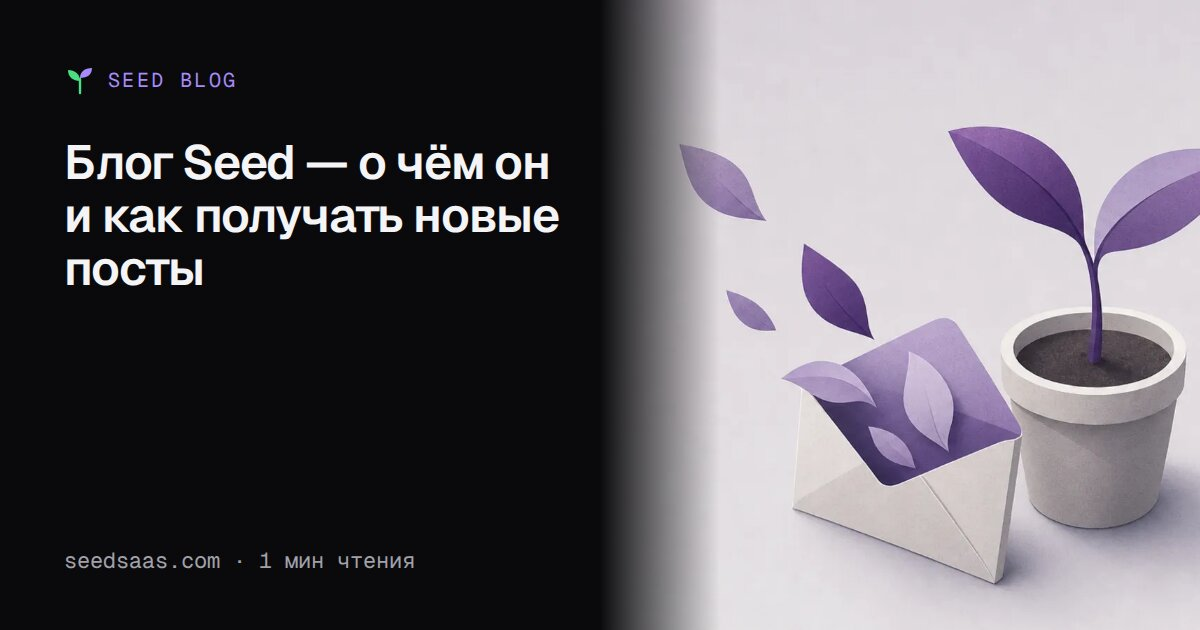
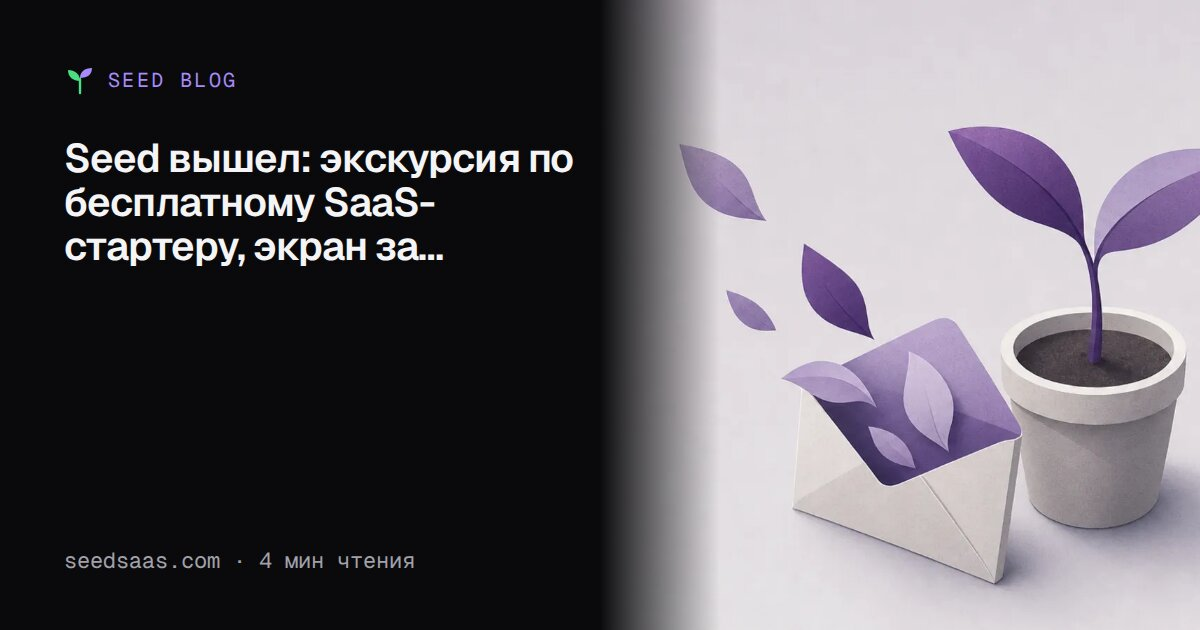
docs(blog): rewrite the welcome post as a launch tour
The post was a two-paragraph placeholder. It now opens with its point and shows what Seed gives on day one with real screenshots. newsletter is false so it is never mailed again.

Changed region(s): [[0.0308, 0.2111, 0.4933, 0.4524], [0.2158, 0.8746, 0.2467, 0.9048]]

diff --git a/libs/server/blog/seed-posts/dobro-pozhalovat-v-blog-seed.md b/libs/server/blog/seed-posts/dobro-pozhalovat-v-blog-seed.md
@@ -2,14 +2,16 @@
 slug: dobro-pozhalovat-v-blog-seed
 language: ru
 translationOf: welcome-to-the-seed-blog
-title: Блог Seed — о чём он и как получать новые посты
-description: Зачем Seed нужен блог, что вы здесь прочитаете и как получать новые посты на почту.
+title: "Seed вышел: экскурсия по бесплатному SaaS-стартеру, экран за экраном"
+seoTitle: "Seed вышел: бесплатный SaaS-стартер, экран за экраном"
+description: Seed, бесплатный SaaS-стартер под MIT, уже можно брать в работу. Что работает с первого дня, чего пока нет и как попробовать за минуту.
 tldr:
-  - Seed — бесплатный SaaS-стартер с лицензией MIT.
-  - Здесь — как строить на нём продукт, его детали и что изменилось за месяц.
-  - Подпишитесь, чтобы получать каждый новый пост на почту.
+  - Seed — бесплатный SaaS-стартер под лицензией MIT, им можно пользоваться уже сейчас. Вы копируете один репозиторий, и весь код ваш.
+  - "Уже готово: ключи доступа и 2FA, группы с ролями, оплата через Stripe за участника, обновления в реальном времени, офлайн, админка и девять языков."
+  - "Пока нет: приложений для Android и десктопа."
+  - Демо открывается в один клик, а локально Seed запускается за четыре команды.
 topic: Seed
-intro: "Я начинаю блог о Seed — бесплатном стартере для SaaS, который строю публично. Здесь — о чём вы будете читать и как получать каждый пост на почту."
+intro: "Seed, бесплатный SaaS-стартер, который я делаю в открытую, готов к работе. Показываю, что вы получаете в первый же день, экран за экраном, чего пока нет и как попробовать за минуту."
 coverAlt: "Фиолетовый росток в горшке рядом с открытым конвертом, из которого, как письма, вылетают листья."
 author: Anton Shubin
 authorUrl: https://antonshubin.com/about
@@ -17,15 +19,111 @@ publishAt: 2026-11-01T09:00:00Z
 newsletter: false
 ---
 
-Seed — это фундамент SaaS, который уже построен: вход со вторым фактором, группы с ролями, оплата,
-обновления в реальном времени, офлайн-приложение и админка, на Deno, Postgres и Docker Compose. Он
-бесплатный, под лицензией MIT, и я делаю его в открытую.
+Seed вышел. Это бесплатный SaaS-стартер под лицензией MIT, и им можно пользоваться уже сейчас:
+копируете один репозиторий и сразу получаете вход, группы с ролями, оплату через Stripe за каждого
+участника, обновления в реальном времени, офлайн-приложение, админку и девять языков. Всё это
+работает на Postgres и Docker Compose на одном вашем сервере, а прощупать каждый экран можно в
+[живом демо](https://app.seedsaas.com), ещё ничего не устанавливая.
 
-В этом блоге Seed рассказывает о себе: как начать на нём продукт, какие детали легко пропустить, и
-раз в месяц — пост «Что нового в Seed». Подпишитесь ниже, и каждый новый пост придёт вам на почту.
+Я Антон, делаю MVP для SaaS на заказ. Каждый такой проект раньше начинался с одного и того же
+месяца сантехники: вход, команды, оплата и админка, которую я каждый раз обещал себе потом сделать
+красивой. Seed — это тот самый месяц, сделанный один раз и поддерживаемый в актуальном виде. Здесь —
+экскурсия, а почему всё устроено именно так, рассказано в посте
+[«Почему Seed»](/ru/blog/pochemu-seed-besplatnyj-saas-starter-na-veb-standartah).
 
-В некоторых постах есть интерактивные схемы: меняете цифры и проверяете утверждение на своём
-случае. Вот первая — сколько стоит тариф Pro из демо, с оплатой за участника, для команды вашего
-размера.
+## Как люди входят в приложение?
+
+Всеми способами, которых они ждут: почта и пароль с кодом подтверждения, ключи доступа (passkeys),
+Google и GitHub, коды входа на почту. Второй фактор через приложение-аутентификатор включается
+одним переключателем на странице безопасности, и там же видны все устройства, где вы вошли: чужую
+сессию можно завершить. А можно начать вообще без аккаунта, гостем в один клик, и добавить способ
+входа позже — данные останутся.
+
+![Страница безопасности в профиле: пароль, кнопка «Добавить ключ доступа», включённая двухфакторная защита и начало списка ваших устройств.](/shots/profile-security-dark-800.webp)
+
+Никто ещё не выбрал продукт за то, что в нём работает сброс пароля. А вот уйти из-за того, что он
+не работает, — запросто. Как это устроено без платного сервиса авторизации, я разобрал в посте
+[Passkeys, 2FA and sessions without an auth SaaS](/blog/passkeys-2fa-sessions-without-auth-saas)
+(на английском).
+
+## Как устроены команды?
+
+Через группы. Регистрация в одной транзакции базы данных создаёт аккаунт, сессию и первую группу,
+так что личное пространство и команда — одно и то же, с одними правилами. Людей приглашают по почте
+и дают одну из четырёх ролей: читатель, редактор, админ или владелец. Владелец может передать
+группу другому, а удалённую группу можно восстановить в течение 30 дней.
+
+![Участники группы с их ролями, кнопка приглашения и открытое меню одного участника: «Сделать читателем», «Сделать админом», «Убрать из группы».](/shots/group-members-dark-800.webp)
+
+## Как выглядит оплата?
+
+Подписка Stripe на группу, с оплатой за каждого участника. В каталоге демо есть бесплатный тариф
+(до 3 участников и 10 заметок) и Pro за €9 в месяц за участника, включая владельца, с пробным
+периодом 14 дней. Количество мест следует за числом участников, владелец подтверждает новую цену
+перед каждым приглашением, а после неудачного платежа есть льготный период, а не мгновенная
+блокировка. Цены — пример: ваши тарифы — это список в одном файле
+([документация по оплате](/docs/billing), на английском).
+
+![Тариф демо-группы в демо-приложении, по примерным ценам демо: тариф Pro с датой продления, €36.00 в месяц за 4 участников по €9.00, включая владельца.](/shots/billing-plan-dark-780.webp)
+
+Команда из четырёх человек платит на Pro €36 в месяц. Подвиньте ползунок и посмотрите, сколько
+заплатит ваша.
 
 <CostCalculator members={4} />
+
+## Что будет, если двое правят одновременно или пропал Wi-Fi?
+
+Изменения приходят во все открытые вкладки по WebSocket, а когда сокет недоступен, запросы идут по
+обычному HTTP. Приложение устанавливается, открывается без сети, читает последние заметки и группы
+из IndexedDB и копит изменения заметок, пока связь не вернётся. Если кто-то за это время поменял ту
+же заметку, вы увидите конфликт и решите его сами — чужая работа молча не затрётся.
+
+![Страница «Заметки» команды Acme Studio: шесть заметок с авторами, цветными тегами и временем изменения, поиск, фильтры по тегам и автору и кнопка «Новая заметка».](/shots/notes-dark-800.webp)
+
+Заметки — эталонная функция: вашу первую функцию вы копируете с неё, файл за файлом. Подробности —
+в постах [о реальном времени поверх WebSocket](/blog/realtime-websocket-with-http-fallback) и
+[о том, как синхронизируется локальная база](/blog/offline-first-preact-signals-local-database-sync)
+(оба на английском).
+
+## Что видит оператор?
+
+Админку на отдельном домене. Оператор находит человека, видит его способы входа, сессии и группы,
+возвращает платёж, пишет этот блог, ведёт подписчиков рассылки и перезапускает упавшую задачу.
+Рискованные действия просят подтверждения, а каждое действие попадает в журнал аудита.
+
+![Страница «Пользователи» в админке: поиск по имени или адресу, фильтры по статусу, типу аккаунта и роли и таблица выдуманных людей с их ролью, статусом и временем последнего визита.](/video/admin-panel-poster-1280.webp)
+
+У каждой функции приложения есть свой экран в админке, и появляется он в том же изменении, так что
+они не расходятся.
+
+## На каких языках он говорит?
+
+На девяти: русский, английский, немецкий, испанский, французский, бразильский португальский,
+японский, упрощённый китайский и арабский, который читается справа налево. Переключаются
+приложение, админка, этот сайт и письма, так что вёрстку на арабском можно проверить до того, как
+баг найдёт ваш первый арабский клиент
+([девять языков и RTL с первого дня](/ru/blog/devyat-yazykov-i-rtl-s-pervogo-dnya)).
+
+## Чего пока нет?
+
+Приложения для Android ([#202](https://github.com/spy4x/seed/issues/202)) и для десктопа
+([#203](https://github.com/spy4x/seed/issues/203)). Остальные планы — в
+[открытых задачах](https://github.com/spy4x/seed/issues). В демо Stripe выключен: оплате нужны ваши
+ключи, поэтому демо показывает выдуманные платежи вместо настоящих.
+
+И Seed подходит не всем. Если вы деплоите в serverless-функции или хотите готовый облачный бэкенд,
+возьмите что-то другое: Seed рассчитан на сервер, которым управляете вы.
+
+## Как попробовать?
+
+Два способа, по минуте каждый:
+
+- **Живое демо.** Кнопка «Попробовать без аккаунта» открывает гостевой аккаунт с примерами: группу,
+  где вы владелец, и две команды выдуманных людей. Каждую ночь демо стирается, так что ломайте
+  смело.
+- **На своей машине.** Deno 2 и Docker, а дальше четыре команды. По шагам — в
+  [посте об установке](/ru/blog/kak-ustanovit-seed-i-zapustit-lokalno), с настоящим выводом команд и
+  типичными граблями, и в [руководстве Get started](/docs/get-started) на английском.
+
+Начните с демо: [откройте его](https://app.seedsaas.com), нажмите «Попробовать без аккаунта» и
+покопайтесь в чужой команде.

diff --git a/libs/server/blog/seed-posts/welcome-to-the-seed-blog.md b/libs/server/blog/seed-posts/welcome-to-the-seed-blog.md
@@ -1,31 +1,124 @@
 ---
 slug: welcome-to-the-seed-blog
 language: en
-title: Welcome to the Seed blog
-description: What this blog is for, what you will read here, and how to get new posts by email.
+title: "Seed is out: a tour of the free SaaS starter, screen by screen"
+seoTitle: "Seed is out: a screen-by-screen tour of the free SaaS starter"
+description: Seed, a free MIT-licensed SaaS starter, is usable today. A screen-by-screen tour of what works on day one, what is not built yet, and how to try it.
 tldr:
-  - Seed is a free, MIT-licensed starter for a SaaS.
-  - This blog covers how to build on it, its details, and what changed.
-  - Subscribe to get each new post by email.
+  - Seed is a free, MIT-licensed SaaS starter, usable today. You copy one repository and own every line.
+  - "Built already: passkeys and 2FA, groups with roles, per-member Stripe billing, realtime, offline, an admin panel and nine languages."
+  - "Not built yet: the Android and desktop apps."
+  - Try the live demo with one click, or run it locally in four commands.
 topic: Seed
-intro: "I'm starting a blog for Seed, the free SaaS starter I build in public. Here is what you will read and how to get each post by email."
+intro: "Seed, the free SaaS starter I build in public, is usable today. Here is a tour of what you get on day one, screen by screen, what is still missing, and how to try it in a minute."
 cover: covers/welcome-to-the-seed-blog.webp
 coverAlt: "A violet seedling in a pot beside an open envelope from which leaves drift out like letters."
 author: Anton Shubin
 authorUrl: https://antonshubin.com/about
 publishAt: 2026-11-01T09:00:00Z
-newsletter: true
+newsletter: false
 ---
 
-Seed is the groundwork of a SaaS, already built: sign-in with a second factor, groups with roles,
-billing, realtime, an offline app and an admin area, on Deno, Postgres and Docker Compose. It is
-free, MIT-licensed and built in public.
+Seed is out. It is a free, MIT-licensed SaaS starter that you can use today: you copy one
+repository and start with sign-in, groups with roles, per-member Stripe billing, realtime updates,
+an offline app, an admin panel and nine languages already working. It runs on Postgres and Docker
+Compose on one server you control, and you can click through all of it in the
+[live demo](https://app.seedsaas.com) before you install anything.
 
-This blog is where Seed explains itself: how to start a product on it, the details that are easy
-to miss, and a monthly "What's new in Seed" post on what changed. Subscribe below to get each new
-post by email.
+I'm Anton. I build SaaS MVPs for clients, and every one of them used to start with the same month
+of plumbing: sign-in, teams, billing, an admin page I swore I would make nicer later. Seed is that
+month, done once and kept up to date. This post is the tour. The reasons behind the choices are in
+[Why Seed](/blog/why-seed-free-saas-starter-web-standards).
 
-Some posts hold a figure you can change, so you can check a claim against your own case. Here is
-the first: what the demo's Pro plan, billed per member, costs a team of your size.
+## How do people sign in?
+
+Every way people expect: e-mail and password with a confirmation code, passkeys, Google and GitHub,
+and sign-in codes by e-mail. A second factor with an authenticator app is one switch on the
+security page, and the same page lists every signed-in device, so a person can end a session they
+do not recognise. A visitor can also start as a guest with one click and add a sign-in method
+later, keeping everything.
+
+![The security page of a profile: the password, an Add a passkey button, two-factor sign-in turned on, and the top of the list of signed-in devices.](/shots/profile-security-dark-800.webp)
+
+Nobody ever signed up for a product because its password reset worked. Plenty have left because
+it didn't. How it is built, without paying an auth service:
+[Passkeys, 2FA and sessions without an auth SaaS](/blog/passkeys-2fa-sessions-without-auth-saas).
+
+## How do teams work?
+
+Through groups. Sign-up creates an account, a session and a first group in one database
+transaction, so a personal space and a team are the same thing with the same rules. People are
+invited by e-mail and get one of four roles: viewer, editor, admin or owner. The owner can hand
+the group over, and a deleted group can be restored for 30 days.
+
+![The members of a group, each with their role, a button to invite people, and one member's menu open: Make Viewer, Make Admin, Remove from group.](/shots/group-members-dark-800.webp)
+
+## What does billing look like?
+
+Stripe subscriptions per group, billed per member. The demo's catalog has a free plan (up to 3
+members and 10 notes) and a Pro plan at €9 a member a month, the owner included, with a 14-day
+trial. The quantity follows the member count, the owner confirms the new price before each
+invite, and a failed card gets a grace period instead of an instant lock-out. The prices are
+examples: your plans are a list in one file ([billing](/docs/billing)).
+
+![A sample group's plan in the demo app, at the demo's example prices: Pro plan with its renewal date, €36.00 a month, for 4 members at €9.00 each, the owner included.](/shots/billing-plan-dark-780.webp)
+
+A team of four pays €36 a month on Pro. Move the slider to see what your team would pay.
 
 <CostCalculator members={4} />
+
+## What happens when two people edit at once, or the Wi-Fi drops?
+
+Changes reach every open tab over a WebSocket, and calls fall back to plain HTTP when the socket is
+down. The app installs, opens with no network, reads the last notes and groups from IndexedDB and
+queues note writes until it is back online. If someone changed the same note in the meantime, you
+see a conflict to settle, never a silent overwrite of a colleague's work.
+
+![The Notes page of a team called Acme Studio: six notes with their authors, coloured tags and update times, a search field, filters by tag and author, and a New note button.](/shots/notes-dark-800.webp)
+
+Notes is the reference feature: your first feature copies it file by file
+([your first feature](/blog/your-first-feature-copy-the-notes-aggregate)). The two deep dives:
+[realtime over WebSocket with an HTTP fallback](/blog/realtime-websocket-with-http-fallback) and
+[how the local database syncs](/blog/offline-first-preact-signals-local-database-sync).
+
+## What does the operator see?
+
+An admin panel on its own host. An operator finds a person, sees their sign-in methods, sessions
+and groups, refunds a payment, writes this blog, looks after the newsletter's subscribers and
+reruns a failed job. Risky actions ask first, and every action lands in an audit log.
+
+![The admin panel's Users page: a search by name or address, filters by status, account and role, and a table of made-up people with their role, status and when they were last seen.](/video/admin-panel-poster-1280.webp)
+
+Every feature of the app gets its admin screen in the same change, so the two never drift apart:
+[how the admin panel stays in sync](/blog/admin-panel-for-every-feature).
+
+## Which languages does it speak?
+
+Nine: English, German, Spanish, French, Brazilian Portuguese, Russian, Japanese, Simplified Chinese
+and Arabic, which reads right to left. The app, the admin panel, this website and the e-mails all
+switch, so you can test your layout in Arabic before your first Arabic customer finds the bug for
+you ([nine languages and right to left](/blog/nine-languages-and-right-to-left-from-day-one)).
+
+## What is not built yet?
+
+The Android app ([#202](https://github.com/spy4x/seed/issues/202)) and the desktop app
+([#203](https://github.com/spy4x/seed/issues/203)). The rest of the plan is in the
+[open issues](https://github.com/spy4x/seed/issues). In the demo, Stripe stays off: billing needs
+your own keys, so the demo shows made-up payments instead of real ones.
+
+Seed is also not for every project. If you deploy to serverless functions or want a hosted
+backend, pick something else: Seed expects a server you run.
+
+## How do you try it?
+
+Two ways, a minute each:
+
+- **The live demo.** "Try it without an account" opens a guest account full of sample data: a
+  group you own and two teams of made-up people. It is wiped every night, so break anything.
+- **On your machine.** Deno 2 and Docker, then four commands. The
+  [Get started guide](/docs/get-started) walks through them, and
+  [the install post](/blog/install-seed-and-run-it-locally) shows the real output and the usual
+  snags.
+
+Start with the demo: [open it now](https://app.seedsaas.com), press "Try it without an account",
+and poke around a team that is not yours.
